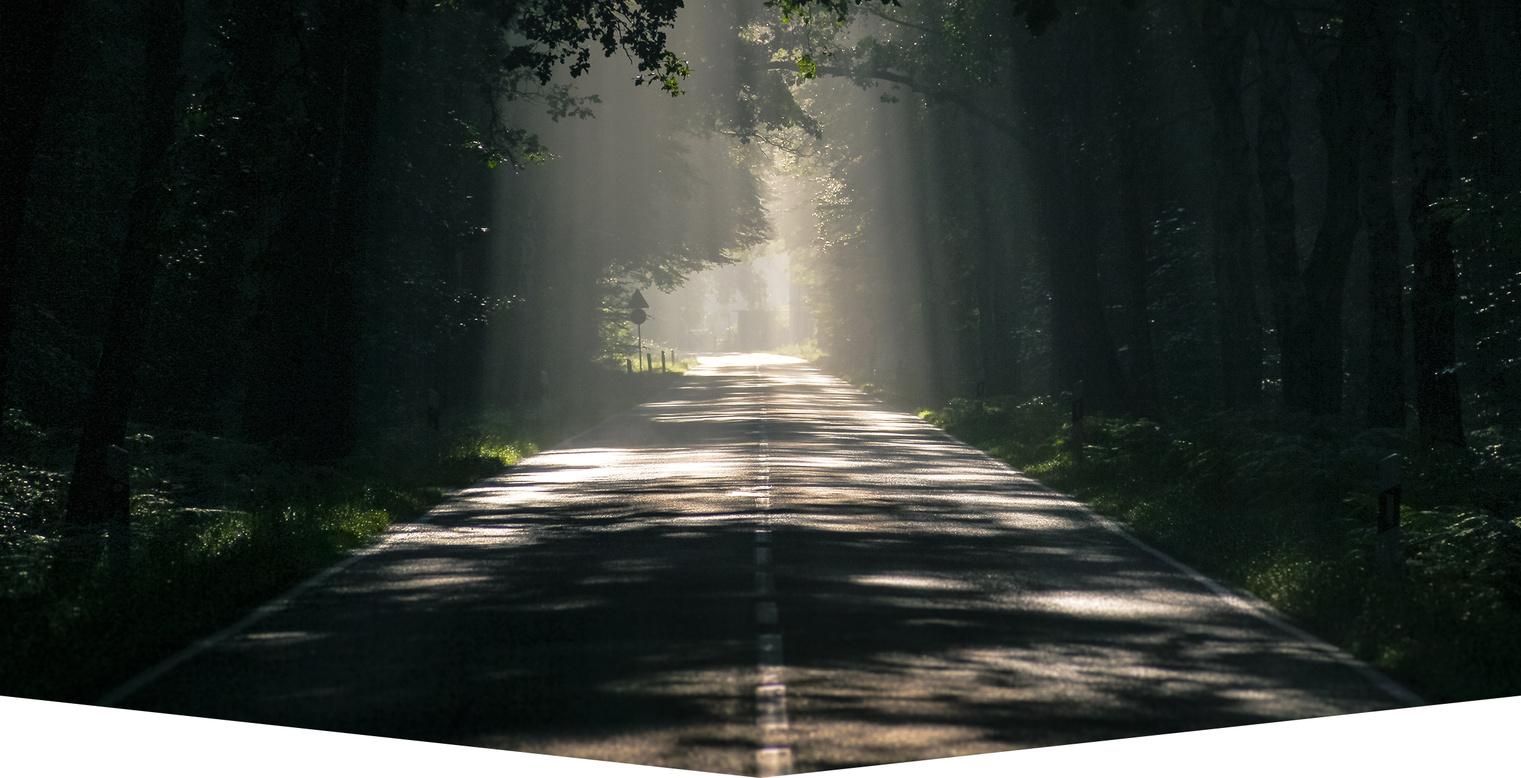
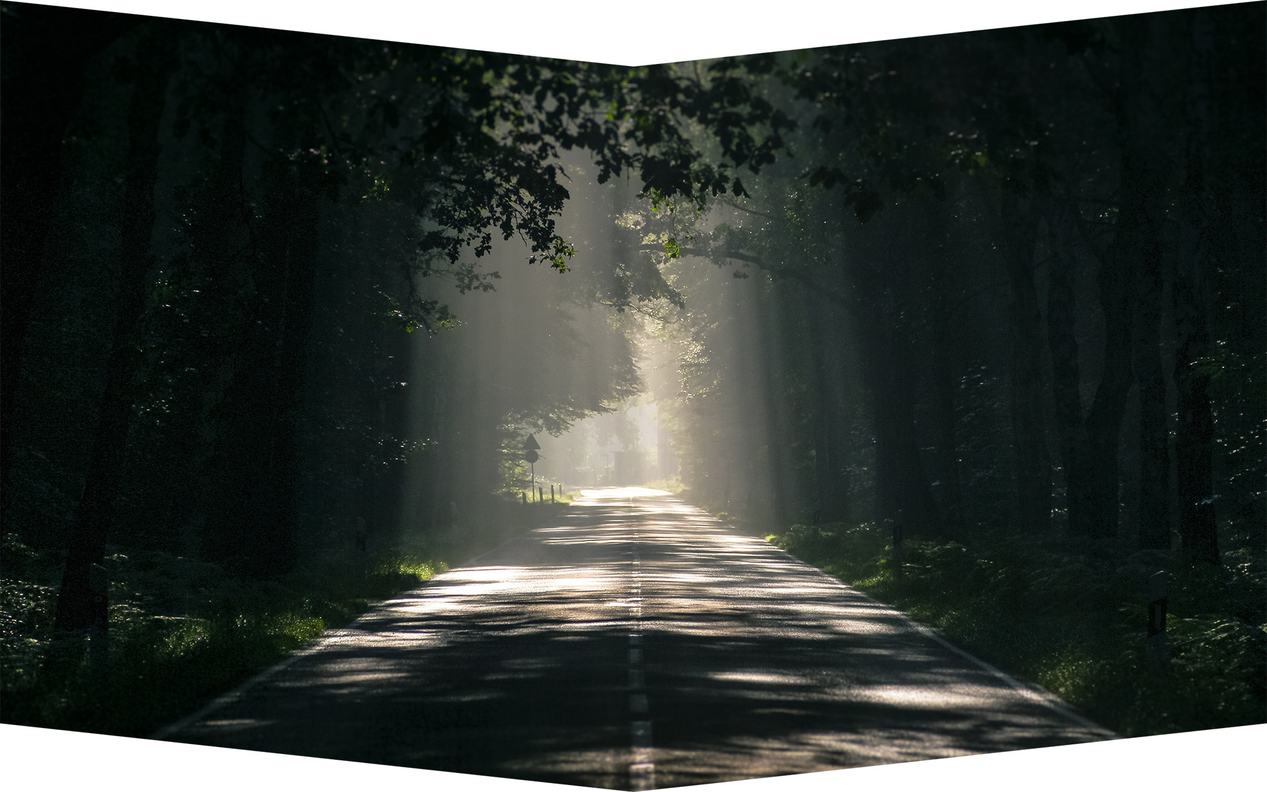
changed images for low res ones jpg format

diff --git a/src/app/home/home.component.css b/src/app/home/home.component.css
@@ -4,7 +4,7 @@
     width:100%;
     min-height: 100vh;
     padding-bottom: 15%;
-    background-image:url("../../assets/Background_1_lowRes.png");
+    background-image:url("../../assets/Background_1_lowRes.jpg");
     background-position: center;
     background-repeat: no-repeat;
     background-attachment: scroll;

diff --git a/src/app/about/about.component.css b/src/app/about/about.component.css
@@ -17,7 +17,7 @@
 
 .profile-picture{
     background-color: black;
-    background-image: url("../../assets/profile_picture.png");
+    background-image: url("../../assets/profile_picture.jpg");
     background-position: center;
     background-repeat: no-repeat;
     background-attachment: scroll;

diff --git a/src/app/projects/projects.component.css b/src/app/projects/projects.component.css
@@ -1,6 +1,6 @@
 .projects-container{
     display: flex;
-    background-image:url("../../assets/Background_2.png");
+    background-image:url("../../assets/Background_2.jpg");
     background-position: center;
     background-repeat: no-repeat;
     background-attachment: scroll;
